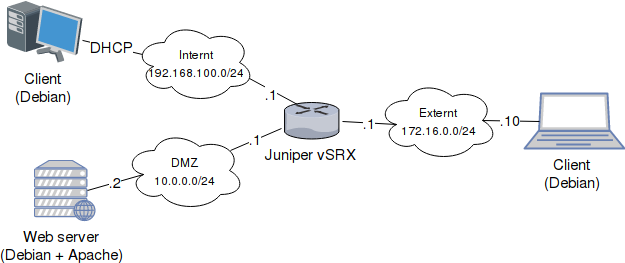
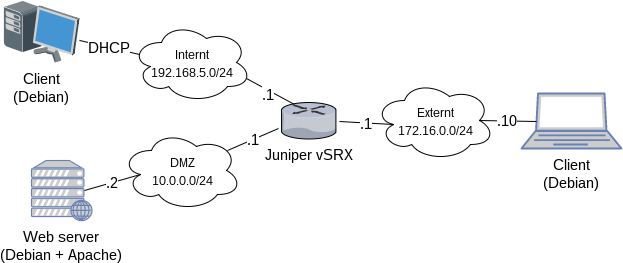
More slides and diagrams done

diff --git a/presentation/index.html b/presentation/index.html
@@ -1,7 +1,7 @@
 <!DOCTYPE html>
 <html>
   <head>
-    <title>RestQFX application and Docker integration</title>
+    <title>Ansible intrduktion</title>
     <meta http-equiv="Content-Type" content="text/html; charset=UTF-8"/>
     <style type="text/css">
       @import url(https://fonts.googleapis.com/css?family=Yanone+Kaffeesatz);
@@ -36,28 +36,58 @@ background-image: url(images/wallpaper.jpg)
 
 Martin Bo Kristensen Grønholdt
 ---
-
 background-image: url(images/wallpaper.jpg)
-#.center[Repository layout]
+#.center[Indhold]
 
-* Tower
-* Playbook
-* Tasks
-* Roles
+* Ansible overblik
+* Playbooks
 * Inventory
 * Host vars
 * Groups
 * Group vars
-* Live demo diagram (aka. nu bliver det vildt)
+* Tasks
 * Modules
-* Concrete walk through in editor
-* Execute the play
-* Show the VMs are as expected
+* Roles
+* Tower
+* Eksempel netværk
+---
+background-image: url(images/wallpaper.jpg)
+#.center[Ansible formål]
 
+* Shell scripting med standarder ;-)
+* Nemmere styr på inventory
+* Nemmere logisk opdeling i roller.
+* Regler skrives i YAML.
+* Moduler med funktioner til dvs. systemer
+  * Linux/Unix pakke styring
+  * Udrul konfigurationer til Juniper, Cisco osv..
+  * Juniper, Cisco osv. kommande udførsel.
+  * Templating af filer med Jinja2
+---
+background-image: url(images/wallpaper.jpg)
+#.center[Ansible struktur]
+
+.center[![:scale 80%](images/ansible-struct.png)]
+---
+background-image: url(images/wallpaper.jpg)
+#.center[Eksempel netværk]
+
+.center[![:scale 70%](images/ansible-network-l3.png "Layer 3")]
+<hr />
+&nbsp;
+.center[![:scale 45%](images/ansible-network-l2.png "Layer 2")]
     </textarea>
     <script src="remark.js" type="text/javascript">
     </script>
     <script type="text/javascript">
+      // Usage:
+      //   ![:scale 50%](image.jpg)
+      // Outputs:
+      //   <img src="image.jpg" style="width: 50%" />
+      remark.macros.scale = function (percentage) {
+        var url = this;
+        return '<img src="' + url + '" style="width: ' + percentage + '" />';
+      };
       var slideshow = remark.create();
     </script>
   </body>
